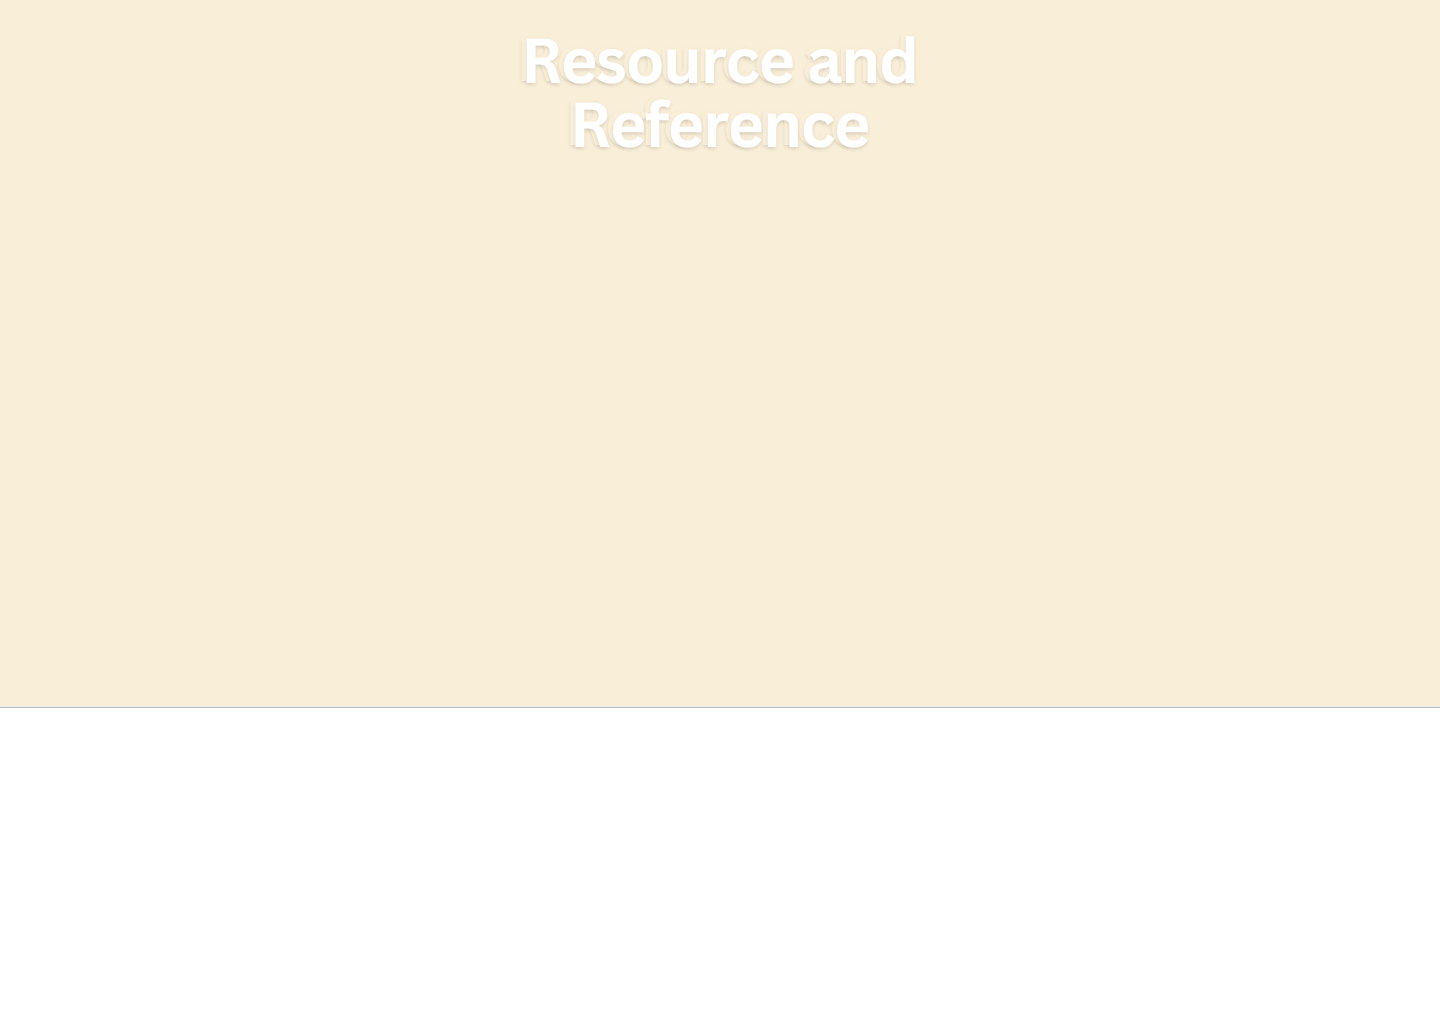
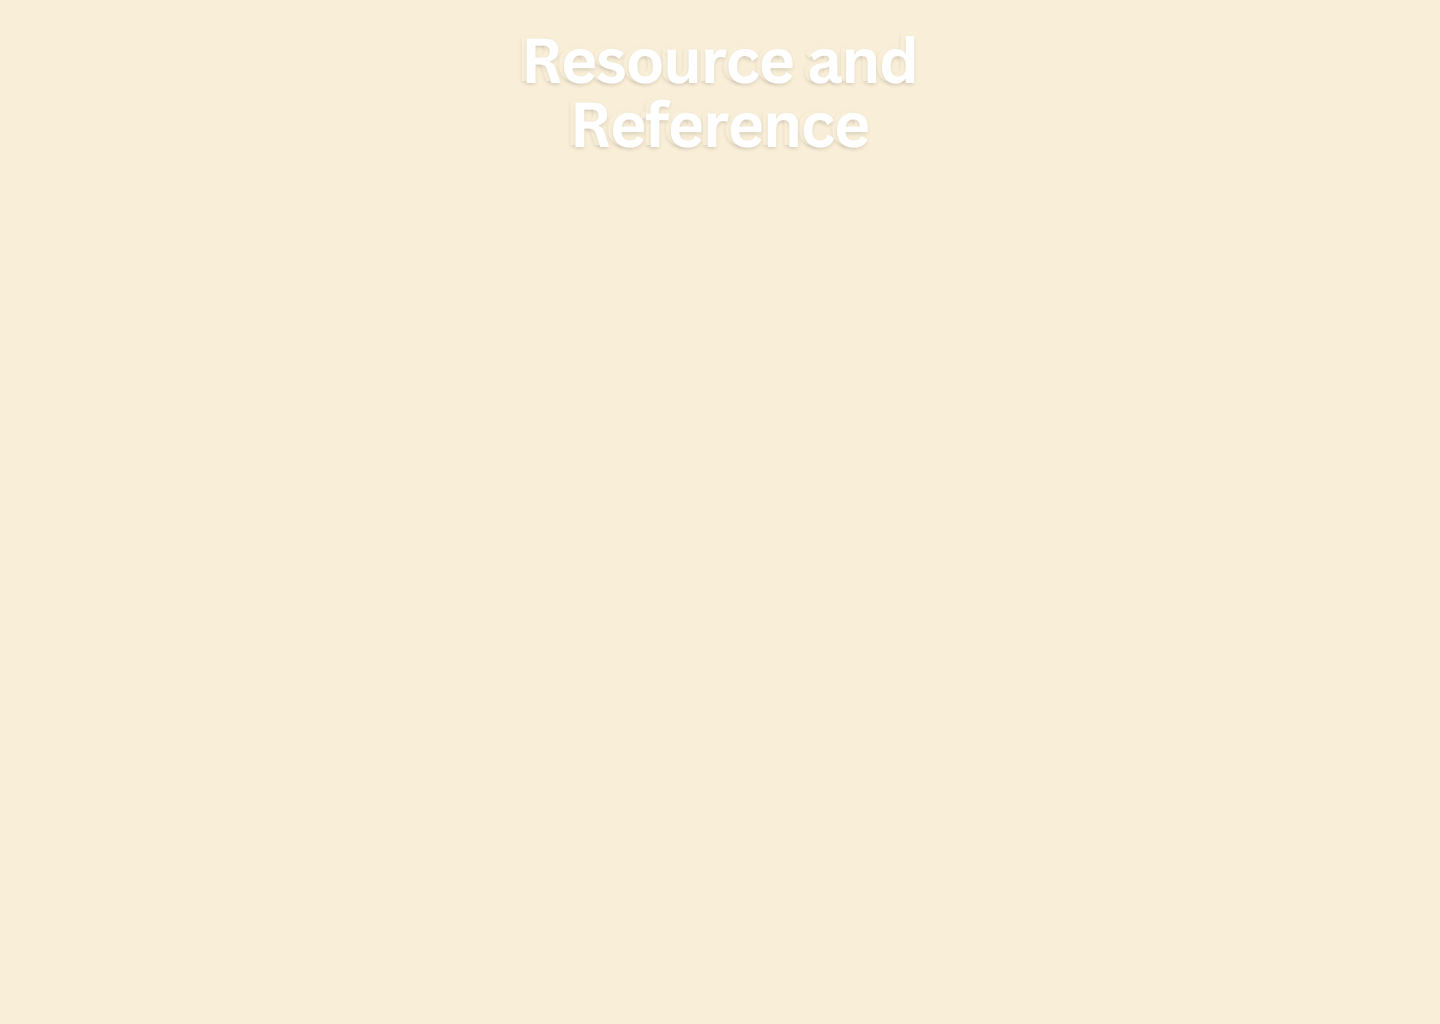
Fixed the background & removed the margin-top on footer.

diff --git a/Demacians_Personality_Test_BSIT32E1/wwwroot/css/PersonalityPage.css b/Demacians_Personality_Test_BSIT32E1/wwwroot/css/PersonalityPage.css
@@ -229,8 +229,8 @@ footer {
     border-top: 0.5px solid #ede7e7;
     width: 100vw;
     margin-left: -1%;
-    margin-top: 10%;
-    margin-bottom: 5%;
+/*    margin-top: 10%;
+*/    margin-bottom: 5%;
 }
 
 .text_footer_container {

diff --git a/Demacians_Personality_Test_BSIT32E1/Program.cs b/Demacians_Personality_Test_BSIT32E1/Program.cs
@@ -25,6 +25,6 @@ app.UseAuthorization();
 app.MapControllerRoute(
     name: "default",
 
-    pattern: "{controller=QuizUI}/{action=QuizPage7}/{id?}");
+    pattern: "{controller=AboutUs}/{action=AboutUs}/{id?}");
 
 app.Run();
